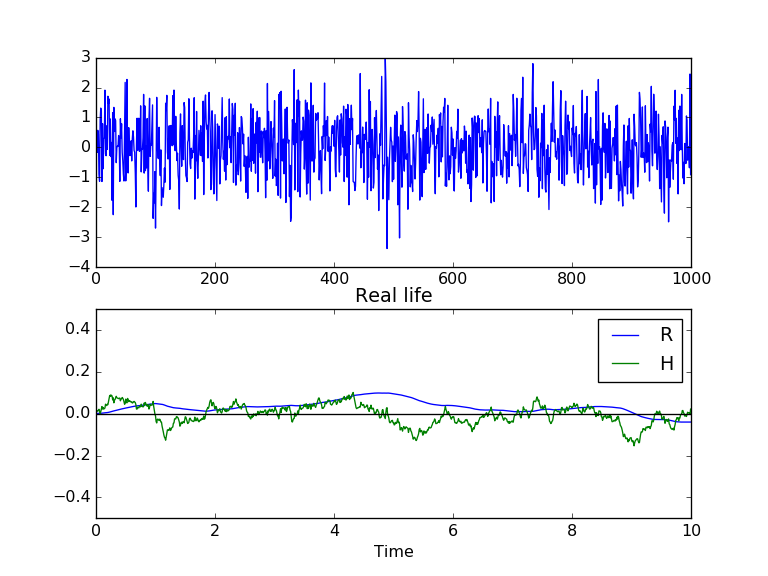
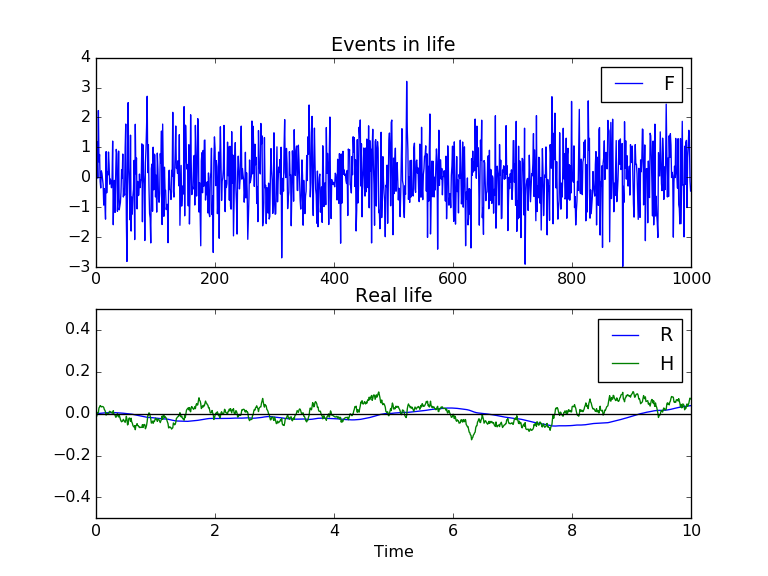
upd real life

diff --git a/main.py b/main.py
@@ -69,7 +69,7 @@ p.axis([0, 15, -0.2, 0.2])
 p.xlabel('Time')
 p.legend(('R', 'H'))
 p.title('Reaction to a single positive event')
-p.savefig('Single PositiveEvent.png', dpi=96)  #  uncomment to save plots
+# p.savefig('Single PositiveEvent.png', dpi=96)  #  uncomment to save plots
 p.show()
 
 p.figure()
@@ -85,12 +85,14 @@ p.axis([0, 15, -0.5, 0.5])
 p.xlabel('Time')
 p.legend(('R', 'H'))
 p.title('Reaction to a repetative positive event')
-p.savefig('Repetative PositiveEvent.png', dpi=96)  #  uncomment to save plots
+# p.savefig('Repetative PositiveEvent.png', dpi=96)  #  uncomment to save plots
 p.show()
 
 p.figure()
 p.subplot(211)
 p.plot(normal)
+p.legend('F')
+p.title('Events in life')
 p.subplot(212)
 p.plot(t1, realSol)
 p.axhline(0, color='black')
@@ -98,6 +100,6 @@ p.ylim([-0.5, 0.5])
 p.xlabel('Time')
 p.legend(('R', 'H'))
 p.title('Real life')
-p.savefig('Real Life.png', dpi=96)  #  uncomment to save plots
+# p.savefig('Real Life.png', dpi=96)  #  uncomment to save plots
 p.show()
 
